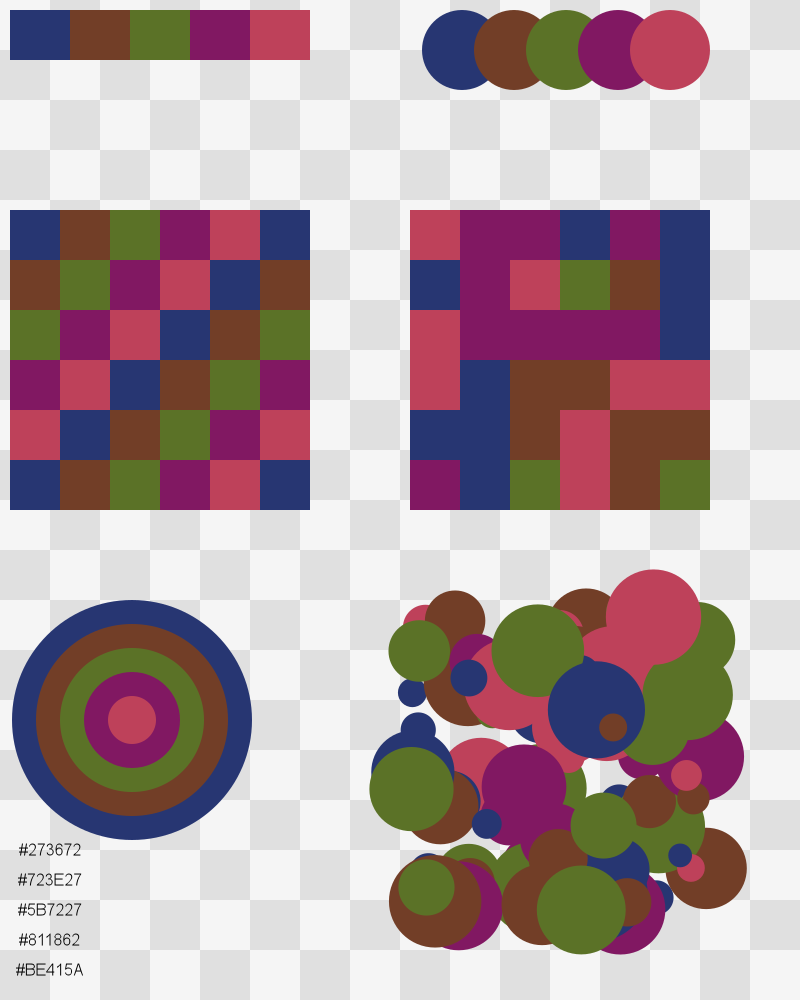
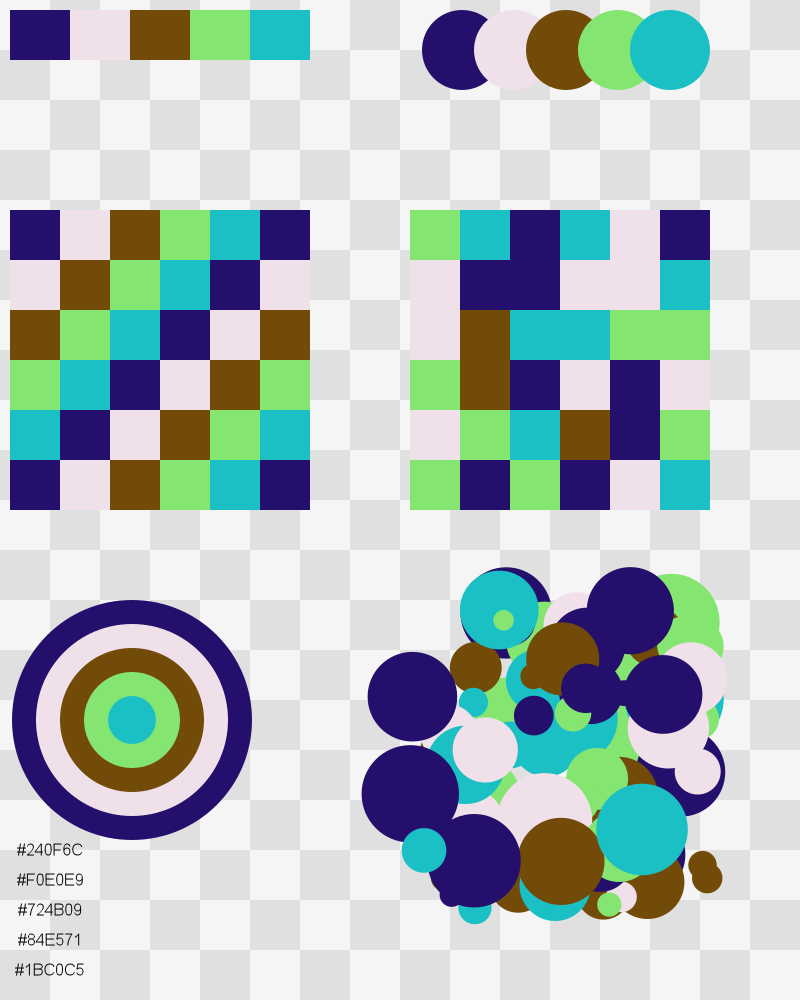
Introduce more variety into hue and brightness diversity

diff --git a/src/utils/colorReader.js b/src/utils/colorReader.js
@@ -1,43 +1,31 @@
 const fs = require("fs");
 const path = require("path");
 
-// const generateRandomColors = (numColors) => {
-//   const randomColors = [];
-//   for (let i = 0; i < numColors; i++) {
-//     const color = `#${Math.floor(Math.random() * 16777215)
-//       .toString(16)
-//       .padEnd(6, "0")}`;
-//     randomColors.push(color);
-//   }
-//   return randomColors;
-// };
-
-const generateSplitComplementaryColors = (numColors) => {
-  // Generate a random base hue between 0 and 360
+const generateUXFriendlyColors = (numColors) => {
+  // Generate a random base hue for each palette
   const baseHue = Math.floor(Math.random() * 360);
-  
-  // Define a base saturation and lightness value
-  // Avoiding too high or too low values that result in greys or overly vibrant colors
-  const baseSaturation = Math.floor(Math.random() * 50) + 30; // Saturation between 30% and 80%
-  const baseLightness = Math.floor(Math.random() * 40) + 30; // Lightness between 30% and 70%
+  const hueIncrement = Math.floor(360 / numColors); // Ensures a wide range of hues
 
-  let colors = [`hsl(${baseHue}, ${baseSaturation}%, ${baseLightness}%)`];
+  let colors = [];
 
-  // Calculate the split complementary hues
-  const splitHue1 = (baseHue + 150) % 360;
-  const splitHue2 = (baseHue + 210) % 360;
+  for (let i = 0; i < numColors; i++) {
+    // Adjust hue for each color to ensure variety
+    const currentHue = (baseHue + i * hueIncrement) % 360;
+    
+    let adjustSaturation, adjustLightness;
 
-  colors.push(`hsl(${splitHue1}, ${baseSaturation}%, ${baseLightness}%)`);
-  colors.push(`hsl(${splitHue2}, ${baseSaturation}%, ${baseLightness}%)`);
+    // Alternate between different saturation and lightness for contrast
+    if (i % 2 === 0) {
+      // More saturated and darker for contrast
+      adjustSaturation = 70 + Math.floor(Math.random() * 30); // 70% to 100%
+      adjustLightness = 20 + Math.floor(Math.random() * 40); // 20% to 60%
+    } else {
+      // Less saturated and lighter
+      adjustSaturation = 30 + Math.floor(Math.random() * 40); // 30% to 70%
+      adjustLightness = 60 + Math.floor(Math.random() * 40); // 60% to 100%
+    }
 
-  // Generate additional colors by adjusting saturation and lightness
-  for (let i = 3; i < numColors; i++) {
-    // Adjust the base values to get a variety of colors
-    const adjustSaturation = (baseSaturation + 20 * (i % 2)) % 100;
-    const adjustLightness = (baseLightness + 20 * ((i + 1) % 2)) % 100;
-
-    const newHue = (baseHue + i * 30) % 360;
-    colors.push(`hsl(${newHue}, ${adjustSaturation}%, ${adjustLightness}%)`);
+    colors.push(`hsl(${currentHue}, ${adjustSaturation}%, ${adjustLightness}%)`);
   }
 
   return colors;
@@ -50,8 +38,7 @@ const readColorsFromFile = () => {
 };
 
 const getColors = (useRandomColors = false, numColors = 5) => {
-  return useRandomColors ? generateSplitComplementaryColors(numColors) : readColorsFromFile();
-
+  return useRandomColors ? generateUXFriendlyColors(numColors) : readColorsFromFile();
 };
 
 module.exports = getColors;
